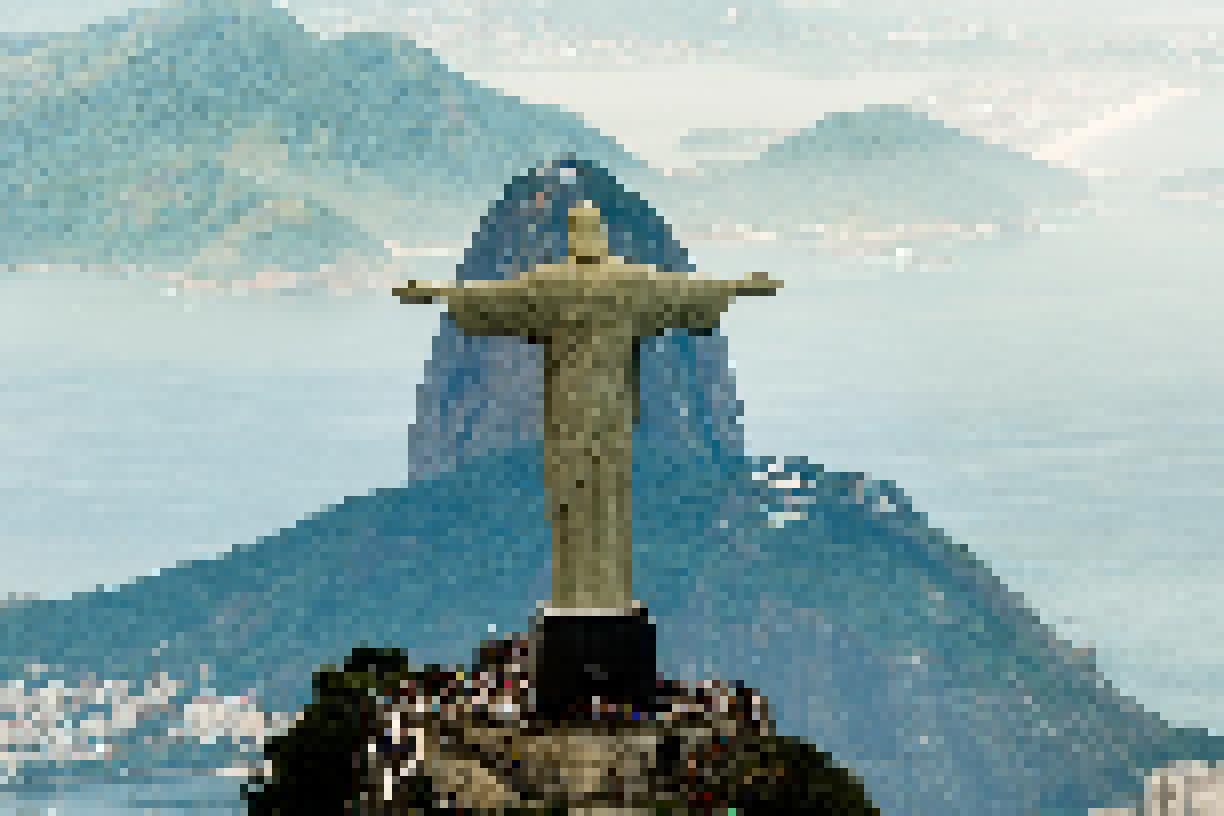
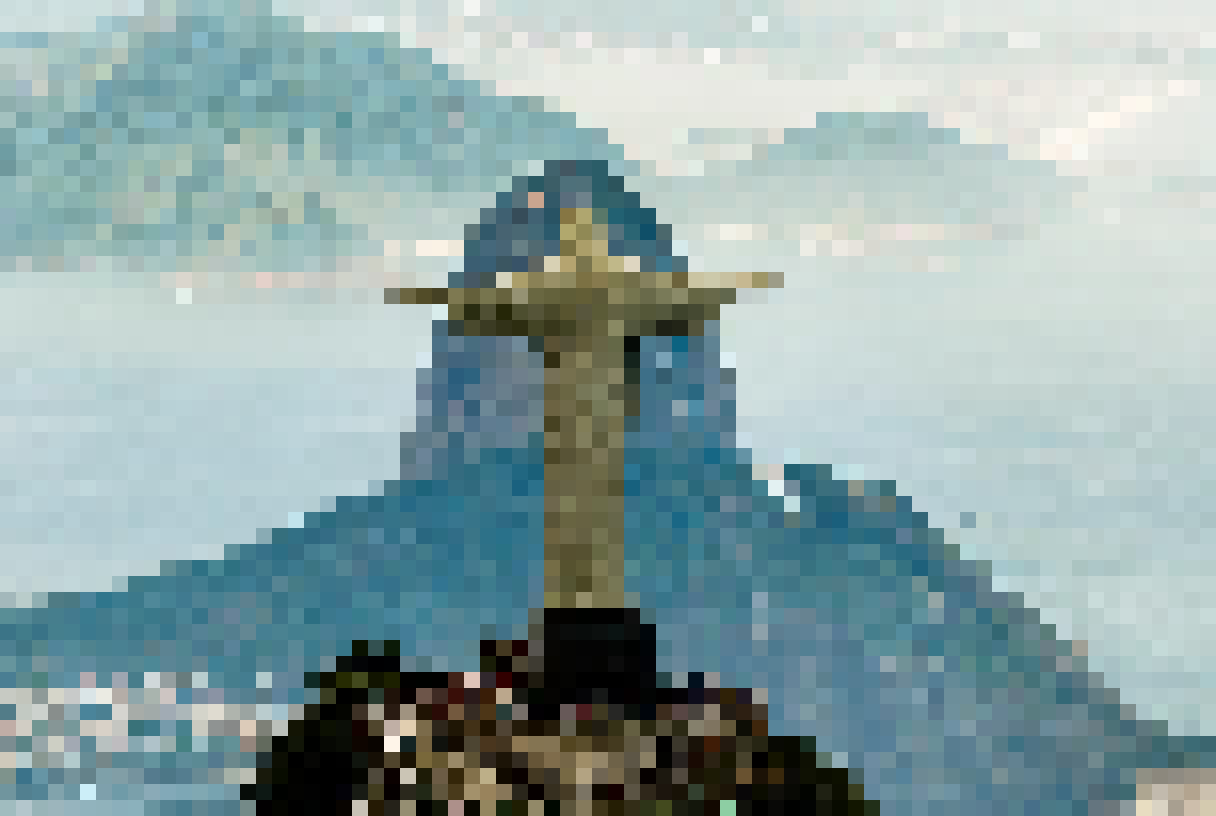
funções externas prontas v1.0

diff --git a/src/python/mirrorImage.py b/src/python/mirrorImage.py
@@ -1,0 +1,29 @@
+import numpy as np
+from PIL import Image, ImageOps
+
+def mirror_image(img_array : np.ndarray, output_path : str, vertical_or_horizontal : int = 1) -> int:
+
+    try:
+        if vertical_or_horizontal != 1 and vertical_or_horizontal != 2:
+            raise ValueError("O parâmetro vertical_or_horizontal deve ser 1 ou 2.")
+        
+        image = Image.fromarray(img_array) # converte o np.array para imagem do PIL
+
+        image = ImageOps.mirror(image) if vertical_or_horizontal == 1 else ImageOps.flip(image)
+
+        image.save("./out/"+output_path) # salva a imagem modificada
+
+    except Exception as e:
+        print(f"Erro: {e}.")
+        print("Erro ao espelhar a imagem.")
+        return 0
+    else:
+        return 1
+    
+if __name__ == "__main__":
+
+    img_path = "./sample/CristoRedentor-4.jpeg"
+    img = Image.open(img_path)
+    img_array = np.array(img)
+
+    mirror_image(img_array, "Cristo_mirrored.png", 1)

diff --git a/src/python/pixelsTo8bit.py b/src/python/pixelsTo8bit.py
@@ -1,7 +1,7 @@
 import numpy as np
 from PIL import Image
 
-def convert_to_8bit_art(img_array : np.ndarray, output_path : str, pixel_size : int = 8) -> int:
+def convert_to_8bit_art(img_array : np.ndarray, output_path : str, pixel_size : int = 16) -> int:
 
     try:
         image = Image.fromarray(img_array) # converte o np.array para imagem do PIL
@@ -29,4 +29,4 @@ if __name__ == "__main__":
     img = Image.open(img_path)
     img_array = np.array(img)
 
-    convert_to_8bit_art(img_array, "Cristo_8bits.png", 8)
+    convert_to_8bit_art(img_array, "Cristo_8bits.png", 16)
